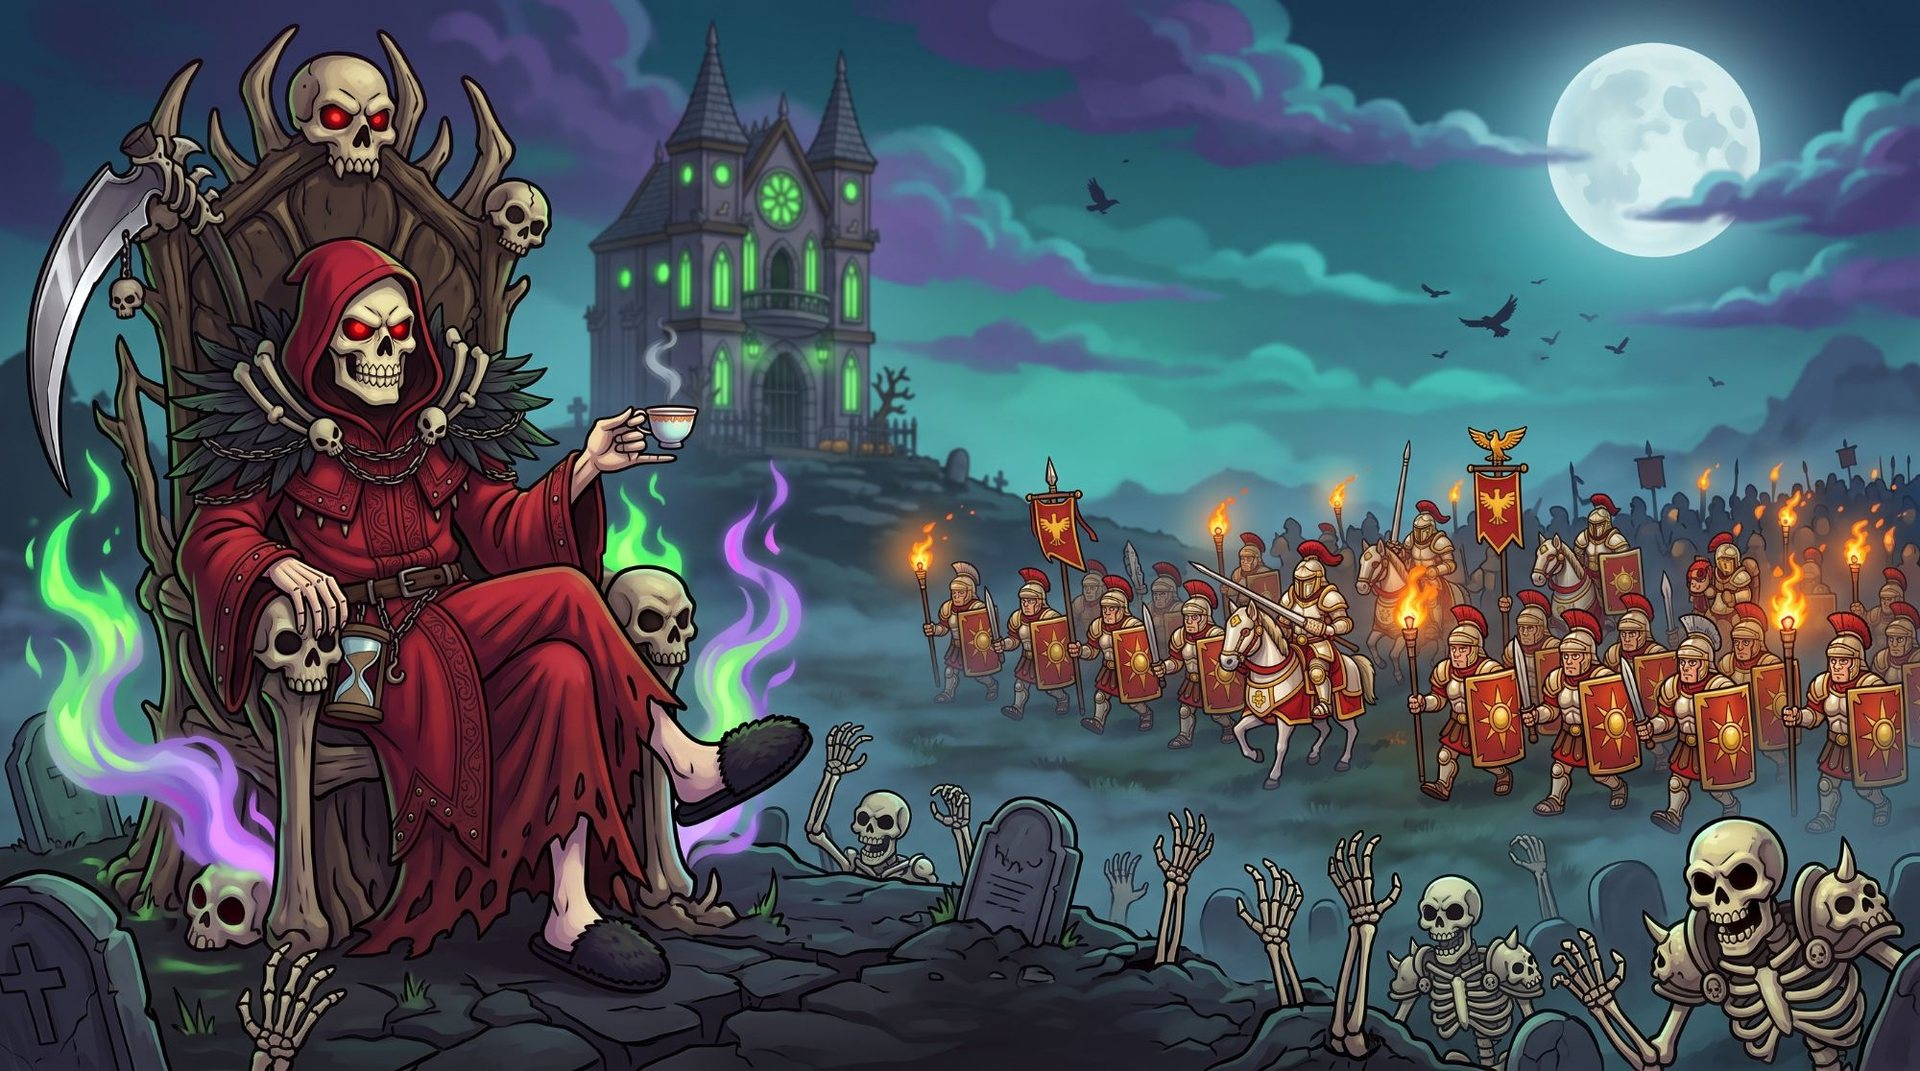
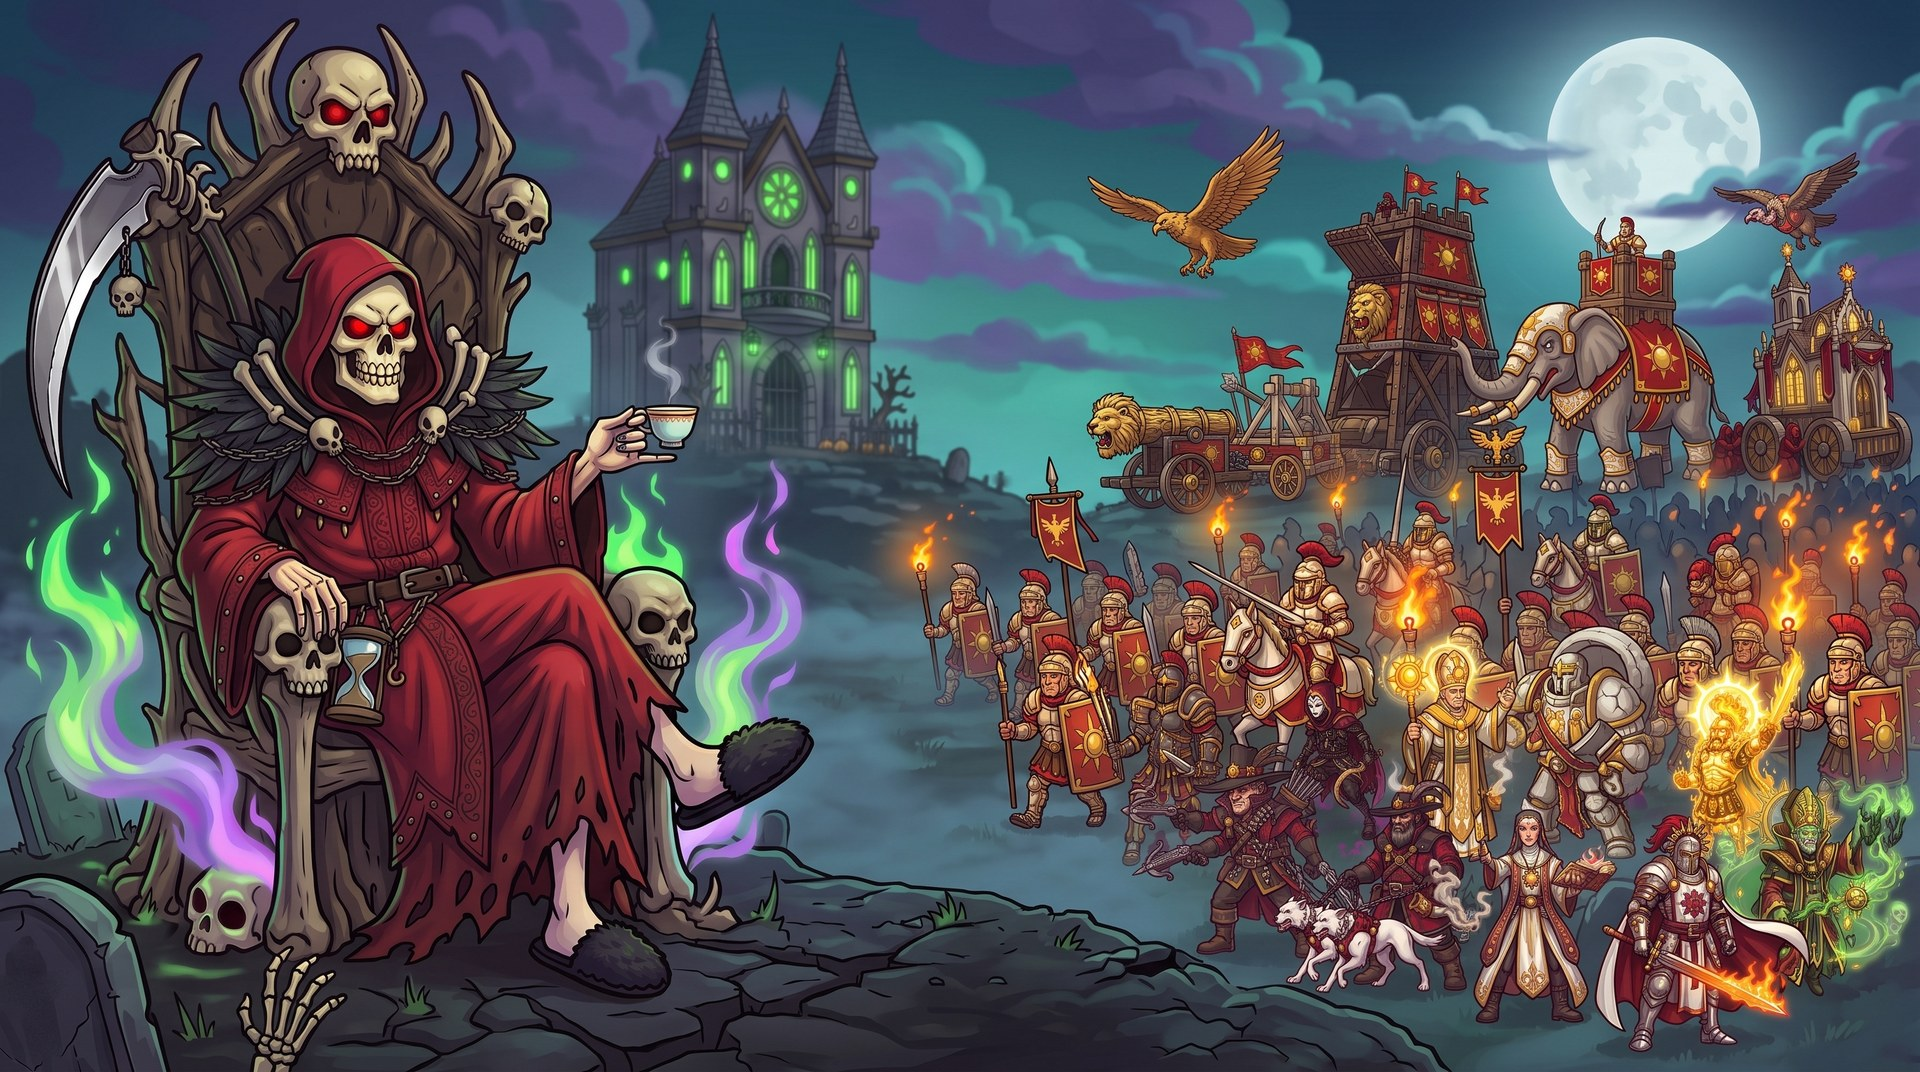
Giriş resmi v2: bütün ordu, yarasalar (yayın 705)

diff --git a/sinir-kalesi/js/game.js b/sinir-kalesi/js/game.js
@@ -17141,19 +17141,20 @@ function drawSkullIcon(x, y, r) {
   ctx.save(); ctx.globalCompositeOperation = 'lighter'; glow(ctx, -r * 0.3, -r * 0.1, r * 0.35, '120,255,140', 0.8); glow(ctx, r * 0.3, -r * 0.1, r * 0.35, '120,255,140', 0.8); ctx.restore();
   ctx.restore();
 }
-// yeni giriş görseli (Mortimer tahtında çay içiyor, lejyon geliyor): ışıklar görseldeki yerlerine (0..1) bağlı canlandırılır
+// giriş görseli v2 (17 Eki: sağda bütün Solarian ordusu, bosslar önde): ışıklar görseldeki yerlerine (0..1) bağlı canlandırılır
 const KEY_FX = {
-  eyes: [[0.187, 0.307], [0.208, 0.309]], skull: [[0.175, 0.11], [0.198, 0.112]], cup: [0.348, 0.378], moon: [0.915, 0.122],
-  torch: [[0.48, 0.517], [0.549, 0.491], [0.635, 0.487], [0.695, 0.463], [0.735, 0.564], [0.755, 0.457], [0.78, 0.469], [0.781, 0.664],
-    [0.844, 0.666], [0.885, 0.451], [0.905, 0.683], [0.93, 0.472], [0.931, 0.562], [0.968, 0.51]],
-  win: [[0.325, 0.26], [0.352, 0.263], [0.365, 0.164], [0.392, 0.228], [0.375, 0.355], [0.425, 0.254], [0.445, 0.178], [0.445, 0.276], [0.445, 0.362]],
+  eyes: [[0.187, 0.304], [0.207, 0.305]], skull: [[0.175, 0.104], [0.197, 0.106]], cup: [0.348, 0.378], moon: [0.914, 0.083],
+  torch: [[0.48, 0.517], [0.569, 0.632], [0.635, 0.487], [0.697, 0.462], [0.734, 0.562], [0.757, 0.46], [0.887, 0.448], [0.924, 0.442],
+    [0.931, 0.479], [0.932, 0.562], [0.966, 0.509], [0.983, 0.503]],
+  win: [[0.326, 0.257], [0.345, 0.251], [0.357, 0.263], [0.358, 0.159], [0.376, 0.159], [0.376, 0.263], [0.376, 0.354], [0.39, 0.247],
+    [0.392, 0.325], [0.406, 0.18], [0.422, 0.253], [0.428, 0.329], [0.443, 0.175], [0.443, 0.362], [0.444, 0.274]],
   flame: [[0.042, 0.583, 70, '110,255,120'], [0.05, 0.72, 50, '190,120,255'], [0.333, 0.507, 46, '110,255,120'], [0.381, 0.645, 50, '190,120,255']],
   // görselin kendisi dalgalandırılan bölgeler [x0, y0, x1, y1, genlik(kaynak px), sıklık, hız]: tahtın yanındaki büyü alevleri, çay buharı
   // tür: 'fire' yalnız yeşil/mor alev pikselleri, 'steam' yalnız açık renkli buhar pikselleri kıpırdar (kol, cübbe, fincan yerinde kalır)
   warp: [[0.0, 0.40, 0.075, 0.70, 5, 0.05, 5, 'fire'], [0.025, 0.62, 0.105, 0.80, 4, 0.06, 4.5, 'fire'], [0.305, 0.43, 0.36, 0.525, 4, 0.07, 5.5, 'fire'],
     [0.365, 0.42, 0.425, 0.64, 5, 0.05, 4.6, 'fire'], [0.33, 0.28, 0.36, 0.352, 3, 0.13, 3, 'steam']],
-  // yürüyüş yerinde dönen uzak kargalar: yalnız göğün sağ yarısında, küçük, uzaklaşıp kaybolur
-  crowSky: [0.5, 0.97, 0.06, 0.24],
+  // yarasalar şapelin çan kulesinden sürü hâlinde çıkar; tekler göğün her yerinden geçer
+  belfry: [0.405, 0.15],
 };
 // dalgalanan bölge: görselin dikdörtgeni yatay şeritlere bölünür, her şerit yukarı doğru akan bir dalga kadar kayar,
 // kenarlar yumuşak maskeyle asıl resme karışır (dikiş görünmez). Kaynak piksel uzayında önbellekli tuval.
@@ -17218,6 +17219,7 @@ function drawKeyArt(bg) {
   const ox = VIS.l + (VIS.w - iw) / 2 + Math.sin(time * 0.07) * 6, oy = VIS.t + (VIS.h - ih) / 2 + Math.cos(time * 0.09) * 3, s = iw / W;
   ctx.drawImage(bg.width > iw * 1.5 ? pickMip(ctx, bg, iw) : bg, ox, oy, iw, ih);
   const P = (f) => [ox + f[0] * iw, oy + f[1] * ih];
+  TITLE_C.keyP = { ox, oy, iw, ih };
   for (const [i, r] of KEY_FX.warp.entries()) keyWarp(bg, ox, oy, iw, ih, r, i);
   for (const [i, f] of KEY_FX.torch.entries()) keyTorch(bg, ox, oy, iw, ih, f, i);
   ctx.save(); ctx.globalCompositeOperation = 'lighter';
@@ -17253,24 +17255,56 @@ function drawKeyArt(bg) {
   }
   ctx.restore();
 }
-// uzak kargalar: göğün sağında belirir, yavaşça süzülüp küçülerek uzaklaşır ve kaybolur (Mortimer'ın önünden geçmez)
-function drawSkyCrows() {
-  const [x0, x1, y0, y1] = KEY_FX.crowSky;
-  TITLE_C.sky = (TITLE_C.sky || []).filter(c => time - c.t0 < c.life);
-  if (!TITLE_C.skyT || time > TITLE_C.skyT) {
-    TITLE_C.skyT = time + rand(2.5, 5);
-    if (TITLE_C.sky.length < 4) TITLE_C.sky.push({ x: W * rand(x0 + 0.05, x1 - 0.1), y: H * rand(y0, y1), vx: rand(-14, 14) || 8, vy: rand(-4, 2), t0: time, life: rand(6, 9), s: rand(0.55, 0.85), ph: rand(0, 6) });
+// yarasalar (17 Eki, Caner: "durağan kuşları sil, gerçek hareket eden ufak yarasalar"): kanatlar perdeli, hızlı çırpar,
+// uçuş yolu yarasa gibi zikzaklı (iki dalga + ara sıra ani dalış). Şapelden 3-6'lık sürü çıkar, arada tek yarasa göğü geçer.
+function spawnTitleBat(x, y, dir, k) {
+  TITLE_C.bats.push({ x, y, cx: x, vx: dir * rand(70, 120), vy: rand(-9, 3), t0: time, life: rand(7, 11), s: k * rand(0.75, 1.15), ph: rand(0, 6),
+    f: rand(9, 12), a1: rand(8, 18), w1: rand(1.2, 2.2), a2: rand(2, 5), w2: rand(5, 8), dive: rand(2, 5) });
+}
+function drawTitleBat(x, y, k, fl, dir) {
+  // fl: kanat açısı -1 (aşağı) .. 1 (yukarı); kanat ucu ve bilek yukarı/aşağı iner, perde kenarı üç kavisli
+  ctx.save(); ctx.translate(x, y); ctx.scale(k * dir, k);
+  ctx.beginPath();
+  for (const sd of [-1, 1]) {
+    const wy = -fl * 7, ty = -fl * 9 + 2;
+    ctx.moveTo(sd * 1.5, -1);
+    ctx.quadraticCurveTo(sd * 5, wy - 2, sd * 8, wy);
+    ctx.quadraticCurveTo(sd * 11, ty - 1, sd * 14, ty);
+    ctx.quadraticCurveTo(sd * 12, ty + 2.5, sd * 11, ty + 4.5);
+    ctx.quadraticCurveTo(sd * 9.5, wy + 2.5, sd * 7.5, wy + 4.5);
+    ctx.quadraticCurveTo(sd * 5.5, wy + 2.5, sd * 4.5, 3);
+    ctx.quadraticCurveTo(sd * 3, 1.5, sd * 1.5, 2);
+    ctx.closePath();
   }
-  ctx.save(); ctx.fillStyle = '#120f18';
-  for (const c of TITLE_C.sky) {
-    const u = (time - c.t0) / c.life, x = c.x + c.vx * (time - c.t0), y = c.y + c.vy * (time - c.t0) + Math.sin(time * 1.3 + c.ph) * 2;
-    if (x < W * x0) continue;
-    const k = c.s * (1 - 0.6 * u), fl = Math.sin(time * 8 + c.ph);
-    ctx.globalAlpha = Math.min(1, u * 5, (1 - u) * 3) * 0.85;
-    ctx.save(); ctx.translate(x, y); ctx.scale(k * (c.vx < 0 ? -1 : 1), k);
-    ctx.beginPath(); ctx.moveTo(-9, -fl * 4); ctx.quadraticCurveTo(-4, -2 - fl * 2, 0, 0); ctx.quadraticCurveTo(4, -2 - fl * 2, 9, -fl * 4);
-    ctx.quadraticCurveTo(4, 0.5 - fl, 0, 2); ctx.quadraticCurveTo(-4, 0.5 - fl, -9, -fl * 4); ctx.closePath(); ctx.fill();
-    ctx.restore();
+  ctx.ellipse(0, 0.5, 2.1, 3.2, 0, 0, Math.PI * 2);
+  ctx.moveTo(-1.6, -2); ctx.lineTo(-1.2, -4.8); ctx.lineTo(-0.3, -2.6); ctx.lineTo(0.3, -2.6); ctx.lineTo(1.2, -4.8); ctx.lineTo(1.6, -2); ctx.closePath();
+  ctx.fill(); ctx.stroke();
+  ctx.fillStyle = '#ff4a3a'; ctx.fillRect(-1.3, -1.2, 0.9, 0.9); ctx.fillRect(0.4, -1.2, 0.9, 0.9); ctx.fillStyle = '#120a18';
+  ctx.restore();
+}
+function drawTitleBats() {
+  const B = TITLE_C.bats || (TITLE_C.bats = []), KP = TITLE_C.keyP;
+  TITLE_C.bats = B.filter(b => time - b.t0 < b.life && b.cx > -40 && b.cx < W + 40);
+  if (KP && (!TITLE_C.flockT || time > TITLE_C.flockT)) { // şapel kulesinden sürü
+    TITLE_C.flockT = time + rand(6, 10);
+    const bx = KP.ox + KEY_FX.belfry[0] * KP.iw, by = KP.oy + KEY_FX.belfry[1] * KP.ih, dir = Math.random() < 0.7 ? 1 : -1, n = 3 + Math.floor(rand(0, 4));
+    for (let i = 0; i < n; i++) spawnTitleBat(bx + rand(-22, 22), by + rand(-10, 14), dir, rand(1.5, 1.85));
+    for (let i = TITLE_C.bats.length - n; i < TITLE_C.bats.length; i++) TITLE_C.bats[i].t0 += (i - TITLE_C.bats.length + n) * rand(0.2, 0.35); // sürü art arda çıkar
+  }
+  if (!TITLE_C.batT || time > TITLE_C.batT) { // tek geçen yarasa (uzakta: küçük, yavaş)
+    TITLE_C.batT = time + rand(3, 6);
+    const l = Math.random() < 0.5;
+    spawnTitleBat(l ? -20 : W + 20, H * rand(0.06, 0.3), l ? 1 : -1, rand(0.95, 1.2));
+  }
+  ctx.save(); ctx.fillStyle = '#120a18'; ctx.strokeStyle = 'rgba(170,120,220,0.45)'; ctx.lineJoin = 'round';
+  for (const b of TITLE_C.bats) {
+    const t = time - b.t0; if (t < 0) { b.cx = b.x; continue; }
+    const dv = Math.max(0, Math.sin(t * 0.9 + b.ph)) ** 6 * 24; // ara sıra kısa dalış
+    const x = b.x + b.vx * t, y = b.y + b.vy * t + Math.sin(t * b.w1 + b.ph) * b.a1 + Math.sin(t * b.w2 + b.ph * 2) * b.a2 + dv;
+    b.cx = x;
+    const fl = Math.sin(time * b.f * 2 + b.ph), k = b.s * Math.min(1, 0.4 + t * 1.5);
+    ctx.globalAlpha = Math.min(1, t * 3, (b.life - t) * 2) * 0.92;
+    ctx.lineWidth = 1 / k; drawTitleBat(x, y, k, fl, b.vx > 0 ? 1 : -1);
   }
   ctx.restore();
 }
@@ -17329,8 +17363,8 @@ function drawNecroTitle(st) {
     const k = time - TITLE_C.flash, a = (k < 0.08 ? 1 : k < 0.16 ? 0.3 : k < 0.24 ? 0.8 : Math.max(0, 1 - (k - 0.24) / 0.26)) * 0.22;
     ctx.fillStyle = `rgba(210,220,255,${a})`; ctx.fillRect(VIS.l, VIS.t, VIS.w, VIS.h);
   }
-  // gökte geçen kargalar
-  if (key) drawSkyCrows(key);
+  // gökte uçan yarasalar (eski görselde kargalar)
+  if (key) drawTitleBats();
   else {
   TITLE_C.crows = (TITLE_C.crows || []).filter(c => c.x > -60 && c.x < W + 60);
   if (!TITLE_C.crowT || time > TITLE_C.crowT) { TITLE_C.crowT = time + rand(5, 9); const l = Math.random() < 0.5; TITLE_C.crows.push({ x: l ? -40 : W + 40, y: rand(150, 260), v: (l ? 1 : -1) * rand(60, 90), ph: rand(0, 6), t: time }); }

diff --git a/sinir-kalesi/index.html b/sinir-kalesi/index.html
@@ -17,7 +17,7 @@
 <canvas id="game" aria-label="Sınır Kalesi oyun alanı"></canvas>
 <script>
   // Sürüm damgası: her yayında artırılır; tarayıcı eski önbellek kopyasını kullanmaz (js ve görseller).
-  window.SURUM = '703';
+  window.SURUM = '705';
   // dil: kayıtlı seçim (yoksa Türkçe); tr/en dışındakiler için çeviri sözlüğü dil.js'ten önce yüklenir
   window.__dilYukle = (function () {
     var l = null; try { l = localStorage.getItem('sinirKalesi.lang'); } catch (e) {}

diff --git a/sinir-kalesi/yayin.html b/sinir-kalesi/yayin.html
@@ -11,7 +11,7 @@
 <canvas id="game" aria-label="Sınır Kalesi oyun alanı"></canvas>
 <script>
   // Sürüm damgası: her yayında artırılır; tarayıcı eski önbellek kopyasını kullanmaz (js ve görseller).
-  window.SURUM = '703';
+  window.SURUM = '705';
   // dil: kayıtlı seçim (yoksa Türkçe); tr/en dışındakiler için çeviri sözlüğü dil.js'ten önce yüklenir
   window.__dilYukle = (function () {
     var l = null; try { l = localStorage.getItem('sinirKalesi.lang'); } catch (e) {}

diff --git a/varliklar/giris_isle.py b/varliklar/giris_isle.py
@@ -1,0 +1,57 @@
+"""Giriş (kapak) görseli: Gemini çıktısındaki haçları siler, oyun boyuna küçültüp img/nm_key.jpg yazar.
+Kullanım: .venv/bin/python3 varliklar/giris_isle.py [ham.jpg]
+Haç bölgeleri çokgenle maskelenir, çevreden harmonik dolgu (Laplace) ile kapatılır, taş dokusu için hafif gürültü eklenir.
+Eski kapak img/nm_key.jpg ilk çalıştırmada varliklar/cikti/eski_giris/ altına yedeklenir."""
+import sys, os, shutil
+import numpy as np
+from PIL import Image, ImageDraw
+
+KOK = os.path.dirname(os.path.abspath(__file__))
+HAM = sys.argv[1] if len(sys.argv) > 1 else os.path.join(KOK, 'ham', 'nm_key_v2_a.jpg')
+CIKTI = os.path.join(KOK, '..', 'sinir-kalesi', 'img', 'nm_key.jpg')
+OYUN_W = 1920
+
+# kaynak (2752x1536) piksel koordinatlarında silinecek bölgeler: [çokgen, gürültü]
+HACLAR = [
+    ([(10, 1350), (52, 1350), (88, 1514), (46, 1514)], 2.5),          # sol alttaki büyük mezar taşı: dikey kol
+    ([(0, 1396), (98, 1388), (98, 1432), (0, 1438)], 2.5),            # büyük mezar taşı: yatay kol
+    ([(1420, 678), (1431, 678), (1431, 694), (1420, 694)], 0),       # şapel sağındaki uzak haç: sol kol
+    ([(1438, 680), (1452, 680), (1452, 697), (1438, 697)], 0),       # uzak haç: sağ kol
+    ([(809, 561), (845, 561), (845, 597), (809, 597)], 0),           # şapel solundaki uzak haç
+]
+
+
+def harmonik(a, m, n=3000):
+    """m maskeli pikselleri komşu ortalamasıyla tekrar tekrar doldur (kenardan içe yumuşak geçiş)."""
+    ys, xs = np.where(m)
+    y0, y1, x0, x1 = max(ys.min() - 2, 0), ys.max() + 3, max(xs.min() - 2, 0), xs.max() + 3
+    b, mm = a[y0:y1, x0:x1].copy(), m[y0:y1, x0:x1]
+    b[mm] = b[~mm].mean(axis=0)
+    for _ in range(n):
+        p = np.pad(b, ((1, 1), (1, 1), (0, 0)), mode='edge')
+        avg = (p[:-2, 1:-1] + p[2:, 1:-1] + p[1:-1, :-2] + p[1:-1, 2:]) / 4
+        b[mm] = avg[mm]
+    a[y0:y1, x0:x1] = b
+
+
+def main():
+    im = Image.open(HAM).convert('RGB')
+    a = np.asarray(im).astype(np.float32)
+    rng = np.random.default_rng(7)
+    for poly, gur in HACLAR:
+        mk = Image.new('L', im.size, 0); ImageDraw.Draw(mk).polygon(poly, fill=255)
+        m = np.asarray(mk) > 0
+        harmonik(a, m)
+        if gur: a[m] += rng.normal(0, gur, (m.sum(), 1))
+    out = Image.fromarray(np.clip(a, 0, 255).astype(np.uint8))
+    h = round(OYUN_W * out.height / out.width)
+    out = out.resize((OYUN_W, h), Image.LANCZOS)
+    yedek = os.path.join(KOK, 'cikti', 'eski_giris')
+    os.makedirs(yedek, exist_ok=True)
+    if os.path.exists(CIKTI) and not os.path.exists(os.path.join(yedek, 'nm_key.jpg')):
+        shutil.copy(CIKTI, os.path.join(yedek, 'nm_key.jpg'))
+    out.save(CIKTI, quality=88)
+    print('yazıldı', CIKTI, out.size)
+
+
+main()
